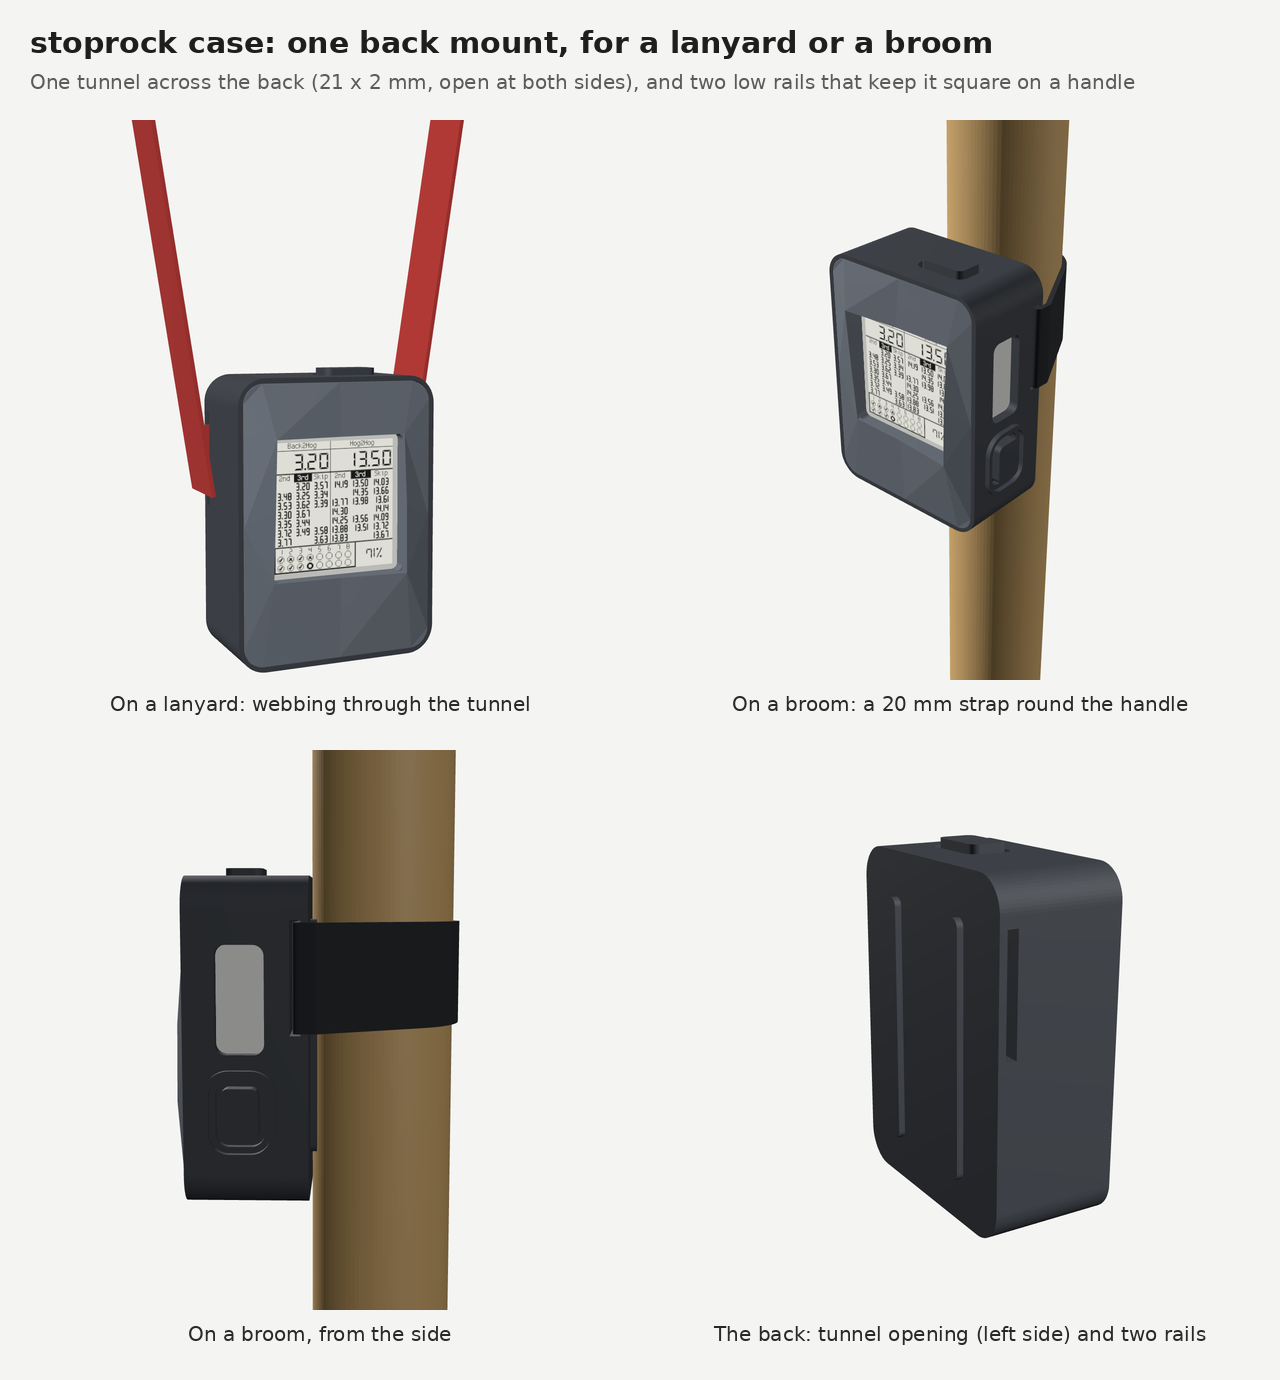
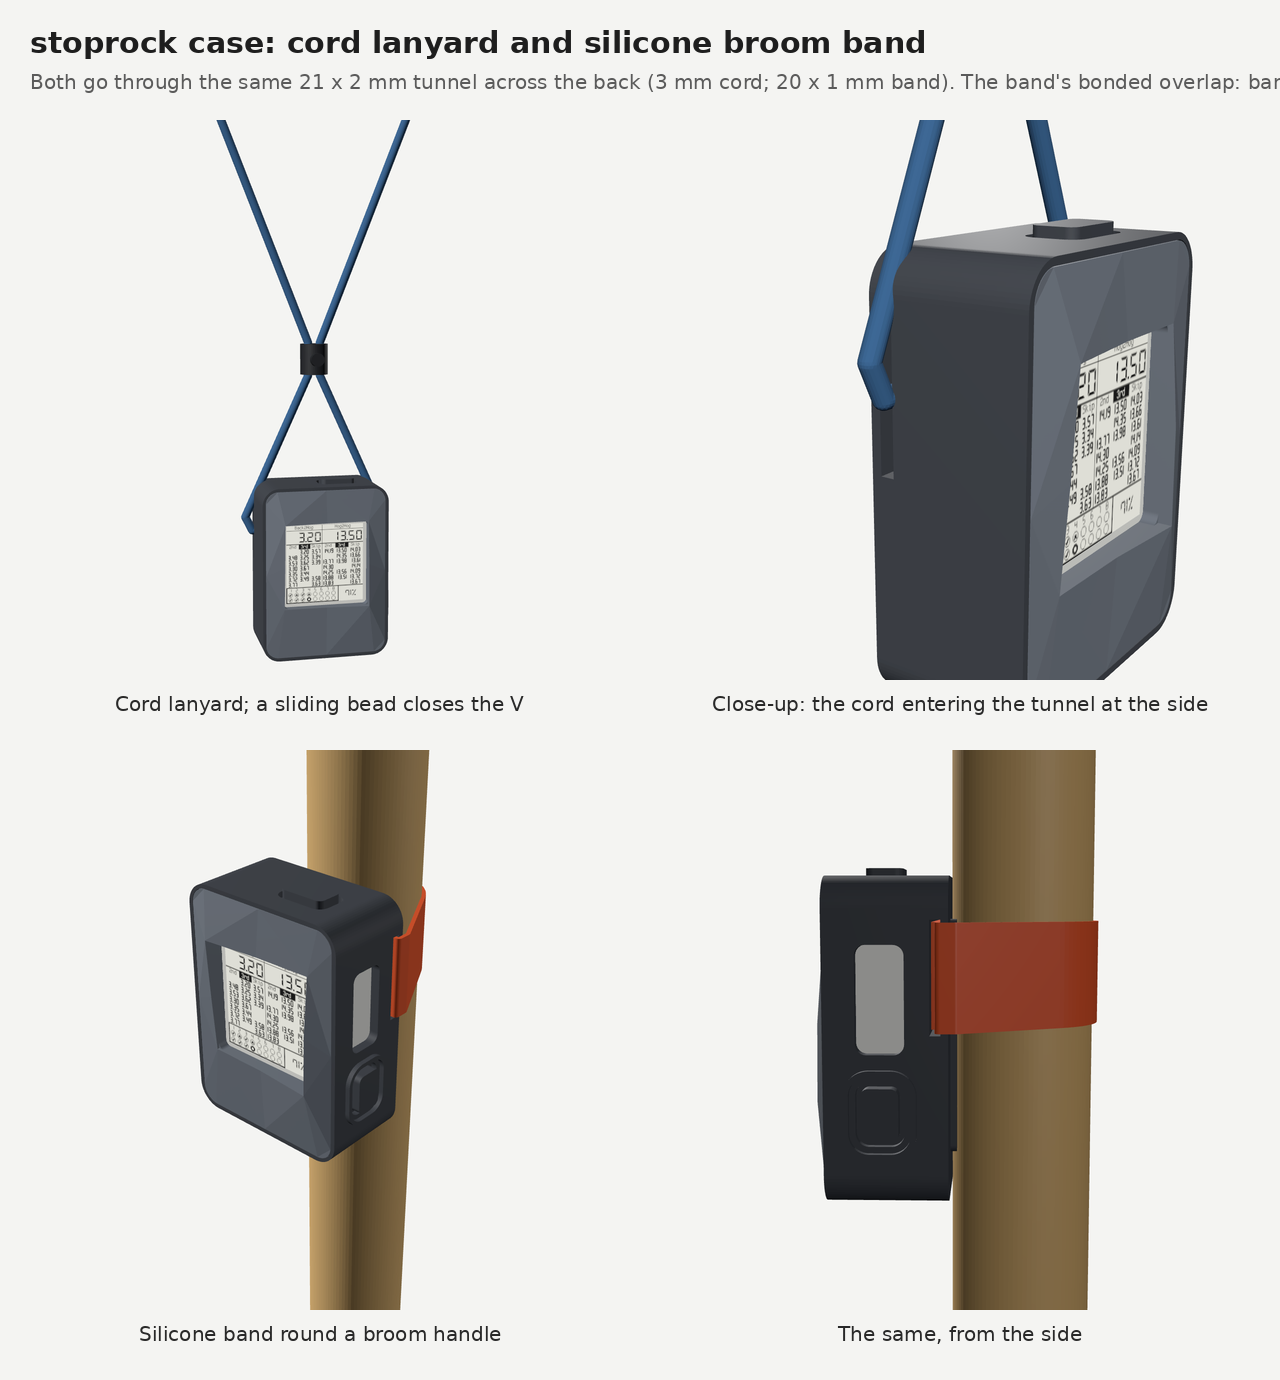
Case mockups: cord lanyard with a bead, and a bonded silicone broom band
Renders of the case on a 3 mm cord lanyard (through the strap tunnel,
its ends meeting at a sliding cord-lock bead) and on a broom handle with
a 20 x 1 mm silicone band whose bonded overlap lies doubled inside the
tunnel; band-section.png is a section through the tunnel showing the
overlap. The printable parts are unchanged.

Claude-Session: https://claude.ai/code/session_01YA9zoncxe9XeMCwR12hQbC

diff --git a/hardware/case/render/index.html b/hardware/case/render/index.html
@@ -39,10 +39,13 @@ if (view !== 'tub' && view !== 'bezel' && view !== 'mount') {
   const scr = new THREE.Mesh(new THREE.PlaneGeometry(27.6, 27.6), new THREE.MeshBasicMaterial({ map: tex }));
   scr.position.set(22.5, 58.5 - 25, 18.55 + dz); group.add(scr);
 }
-if (view === 'lanyard') await add('model-lanyard.stl', mat(0xb8322e, { roughness: 0.85 }));
+if (view.startsWith('cord')) {
+  await add('model-cord.stl', mat(0x2f5d8a, { roughness: 0.9 }));
+  await add('model-cordlock.stl', mat(0x222428, { roughness: 0.5 }));
+}
 if (view.startsWith('broom')) {
   await add('model-handle.stl', mat(0xc9a46a, { roughness: 0.55 }));
-  await add('model-strap.stl', mat(0x24262a, { roughness: 0.95 }));
+  await add('model-band.stl', mat(0xd9542b, { roughness: 0.45 }));
 }
 if (view === 'bezel') group.children[0].visible = false;
 group.position.set(-22.5, -30.5, -10.5);
@@ -50,7 +53,8 @@ const views = {
   front: [[70, 55, 170], [0, 0, 0]], tub: [[80, 70, 150], [0, 0, 0]], exploded: [[150, 40, 120], [0, 0, 8]],
   right: [[170, 10, 40], [0, 0, 0]], bezel: [[-95, 25, 95], [0, 0, 10]],
   mount: [[-150, 55, -95], [0, 0, -6]],
-  lanyard: [[-90, 40, 210], [0, 25, 0]],
+  cord: [[-80, 95, 360], [0, 60, 0]],
+  'cord-close': [[-120, 45, 70], [-18, 12, -2]],
   broom: [[150, 120, 160], [0, -10, -10]],
   'broom-end': [[10, 230, 25], [0, 0, -12]],
   'broom-side': [[210, 25, -20], [0, 0, -14]],

diff --git a/hardware/case/render/shoot.js b/hardware/case/render/shoot.js
@@ -7,7 +7,7 @@ const { chromium } = require('playwright');
   page.on('pageerror', e => errs.push(String(e)));
   page.on('console', m => { if (m.type() === 'error') errs.push(m.text()); });
   const views = process.argv.slice(2).length ? process.argv.slice(2)
-    : ['front', 'bezel', 'right', 'exploded', 'tub', 'mount', 'lanyard', 'broom', 'broom-side'];
+    : ['front', 'bezel', 'right', 'exploded', 'tub', 'mount', 'cord', 'cord-close', 'broom', 'broom-side'];
   for (const v of views) {
     await page.goto(`http://127.0.0.1:8377/index.html?view=${v}`);
     await page.waitForFunction(() => document.title === 'done', null, { timeout: 60000 });

diff --git a/hardware/case/render/section.py b/hardware/case/render/section.py
@@ -1,0 +1,89 @@
+"""A section through the strap tunnel, with the case on a broom: shows the silicone band's
+bonded overlap lying doubled inside the tunnel.   python section.py -> ../band-section.png"""
+from pathlib import Path
+import sys
+
+from PIL import Image, ImageChops, ImageDraw, ImageFont
+
+HERE = Path(__file__).resolve().parent
+sys.path.insert(0, str(HERE.parent))
+import case  # noqa: E402
+from manifold3d import Manifold  # noqa: E402
+
+cy = case.TUNNEL["cy"]
+dev = Manifold.cube((case.DEV_W, case.DEV_H, case.DEV_T)).translate((case.WALL, case.WALL, case.DEV_Z0))
+handle = case.scene_parts()["handle"]
+parts = [  # drawn in this order
+    ("handle", handle, (201, 164, 106)),
+    ("tub", case.tub(), (59, 63, 70)),
+    ("bezel", case.bezel(), (106, 113, 123)),
+    ("device", dev, (225, 225, 220)),
+    ("band", case.broom_band(), (217, 84, 43)),
+]
+
+
+def section(m):
+    """Polygons of m cut by the plane y = cy, as (x, z) points."""
+    return [[(x, -yz) for x, yz in poly] for poly in m.rotate((90, 0, 0)).slice(cy).to_polygons()]
+
+
+def draw(scale, x0, x1, z0, z1, pad=30):
+    W, H = int((x1 - x0) * scale) + 2 * pad, int((z1 - z0) * scale) + 2 * pad
+    img = Image.new("RGB", (W, H), (244, 244, 242))
+    px = lambda x, z: (pad + (x - x0) * scale, pad + (z1 - z) * scale)   # noqa: E731  (front up)
+    for _, m, col in parts:
+        mask = Image.new("1", (W, H), 0)
+        for poly in section(m):
+            one = Image.new("1", (W, H), 0)
+            ImageDraw.Draw(one).polygon([px(x, z) for x, z in poly], fill=1)
+            mask = ImageChops.logical_xor(mask, one)
+        img.paste(Image.new("RGB", (W, H), col), (0, 0), mask)
+    return img, px
+
+
+bold = ImageFont.truetype("/usr/share/fonts/truetype/dejavu/DejaVuSans-Bold.ttf", 26)
+reg = ImageFont.truetype("/usr/share/fonts/truetype/dejavu/DejaVuSans.ttf", 19)
+small = ImageFont.truetype("/usr/share/fonts/truetype/dejavu/DejaVuSans.ttf", 17)
+
+whole, pw = draw(11, -6, case.CW + 6, -33, 26)
+zoom, pz = draw(34, -3, 24, -3.8, 4.4)
+LAB = 270            # room for labels to the right of each drawing
+sheet = Image.new("RGB", (whole.width + LAB + zoom.width + 360 + 40, max(whole.height, zoom.height) + 170), (244, 244, 242))
+d = ImageDraw.Draw(sheet)
+d.text((30, 22), "Silicone band on a broom: section through the strap tunnel", font=bold, fill=(30, 30, 30))
+d.text((30, 62), "The band's two ends overlap and are bonded; the overlap lies doubled inside the tunnel, "
+       "which hides and clamps the joint.", font=reg, fill=(90, 90, 90))
+wx, wy = 20, 120
+zx, zy = whole.width + LAB + 40, 150
+sheet.paste(whole, (wx, wy))
+sheet.paste(zoom, (zx, zy))
+d.text((zx, zy - 38), "Close-up: the left half of the tunnel (the band continues to the right)", font=reg, fill=(40, 40, 40))
+
+
+def label(base, pxf, img_w, x, z, text):
+    """A dot on the feature, a horizontal leader to the right margin, and the label."""
+    ax, ay = pxf(x, z)
+    ax, ay = ax + base[0], ay + base[1]
+    ex = base[0] + img_w + 10
+    d.line([(ax, ay), (ex, ay)], fill=(110, 110, 110), width=2)
+    d.ellipse([ax - 4, ay - 4, ax + 4, ay + 4], fill=(70, 70, 70))
+    d.text((ex + 8, ay - 11), text, font=small, fill=(30, 30, 30))
+
+
+W1 = whole.width
+label((wx, wy), pw, W1, case.CW - 4, 20.2, "bezel")
+label((wx, wy), pw, W1, case.CW - 6, 12, "CoreInk")
+label((wx, wy), pw, W1, case.CW - 0.5, 6, "case (tub)")
+label((wx, wy), pw, W1, case.CW - 5, -0.2, "tunnel, with the band")
+label((wx, wy), pw, W1, case.CW + 1.0, -5, "silicone band, 1 mm")
+label((wx, wy), pw, W1, case.CW / 2 + 6, -16, "broom handle")
+W2 = zoom.width
+label((zx, zy), pz, W2, 22, 3.6, "CoreInk")
+label((zx, zy), pz, W2, 22, 2.0, "case floor, under the CoreInk")
+label((zx, zy), pz, W2, 22, 0.95, "overlap: the other end, bonded")
+label((zx, zy), pz, W2, 22, -0.05, "band (first layer)")
+label((zx, zy), pz, W2, 22, -1.3, "tunnel floor (outer skin)")
+label((zx, zy), pz, W2, 12.5, -2.7, "rail")
+label((zx, zy), pz, W2, 22, -3.5, "broom handle")
+sheet.save(HERE.parent / "band-section.png")
+print("wrote band-section.png", sheet.size)

diff --git a/hardware/case/case.py b/hardware/case/case.py
@@ -169,27 +169,55 @@ def tub():
 HANDLE_R = 14.0
 
 
-def scene_parts():
+def capsule_path(points, r):
+    """A round cord along a polyline: one capsule (hull of two spheres) per segment."""
+    balls = [Manifold.sphere(r, circular_segments=24).translate(p) for p in points]
+    return Manifold.batch_boolean([Manifold.batch_hull([a, b]) for a, b in zip(balls, balls[1:])], OpType.Add)
+
+
+BAND_T = 1.0           # silicone band thickness
+BAND_W = 20.0          # and width
+CORD_R = 1.5           # 3 mm lanyard cord
+
+
+def broom_band():
+    """A silicone band through the tunnel and round the handle, its ends overlapped and bonded
+    inside the tunnel (the doubled part)."""
     tn = TUNNEL
     back = -MOUNT_BACK - RAILS["h"]
-    hz = -MOUNT_BACK - HANDLE_R                  # the handle touches the back between the rails
-    handle = Manifold.cylinder(260, HANDLE_R, circular_segments=96).rotate((-90, 0, 0)).translate((CW / 2, -120, hz))
-    # the strap: through the tunnel, down the case's sides, round the handle (1.2 mm thick, 20 wide)
-    core = CrossSection.hull_points([(0, tn["z0"] + 0.2), (CW, tn["z0"] + 0.2), (0, back), (CW, back)]
+    hz = -MOUNT_BACK - HANDLE_R
+    z_in = tn["z0"] + 0.1                      # the band's inner face, in the tunnel
+    core = CrossSection.hull_points([(0, z_in), (CW, z_in), (0, back), (CW, back)]
                                     + [(CW / 2 + HANDLE_R * np.cos(a), hz + HANDLE_R * np.sin(a))
                                        for a in np.linspace(0, 2 * np.pi, 96, endpoint=False)])
-    ring = core.offset(1.2, JoinType.Round, circular_segments=64) - core
-    strap = Manifold.extrude(ring, 20).rotate((90, 0, 0)).translate((0, tn["cy"] + 10, 0))
-    # lanyard: flat 15 mm webbing through the tunnel, its ends rising up the sides towards the neck
-    wz = (tn["z0"] + tn["z1"]) / 2
-    through = Manifold.cube((CW + 3, 15, 0.9)).translate((-1.5, tn["cy"] - 7.5, wz - 0.45))
-    lanyard = through
-    for sx in (-1, 1):
-        x = -1.5 if sx < 0 else CW + 0.6
-        rise = Manifold.cube((0.9, 150, 15)).translate((0, 0, -7.5))
-        rise = rise.rotate((0, 0, -sx * 9)).translate((x, tn["cy"] - 7.5, wz))
-        lanyard += rise
-    return {"handle": handle, "strap": strap, "lanyard": lanyard}
+    ring = core.offset(BAND_T, JoinType.Round, circular_segments=64) - core
+    lap = CrossSection.square((CW - 12, BAND_T - 0.05)).translate((6, z_in + BAND_T))   # the overlap, on top
+    band2d = ring + lap
+    return Manifold.extrude(band2d, BAND_W).rotate((90, 0, 0)).translate((0, tn["cy"] + BAND_W / 2, 0))
+
+
+def cord_lanyard():
+    """A 3 mm cord through the tunnel; its ends rise up the sides to a sliding cord-lock bead,
+    then go on up as the neck loop."""
+    tn = TUNNEL
+    z = (tn["z0"] + tn["z1"]) / 2
+    y, bead_y = tn["cy"], tn["cy"] + 62
+    pts_l = [(CW / 2, y, z), (-0.5, y, z), (-3.0, y + 5, z), (CW / 2 - 2.2, bead_y - 6, z), (CW / 2 - 2.2, bead_y + 6, z),
+             (-25, bead_y + 120, z)]
+    pts_r = [(CW / 2, y, z), (CW + 0.5, y, z), (CW + 3.0, y + 5, z), (CW / 2 + 2.2, bead_y - 6, z), (CW / 2 + 2.2, bead_y + 6, z),
+             (CW + 25, bead_y + 120, z)]
+    cord = capsule_path(pts_l, CORD_R) + capsule_path(pts_r, CORD_R)
+    bead = Manifold.cylinder(11, 5.0, circular_segments=48).rotate((-90, 0, 0)).translate((CW / 2, bead_y - 5.5, z))
+    button = Manifold.cylinder(3, 2.4, circular_segments=32).translate((CW / 2, bead_y, z + 4.0))
+    return cord, bead + button
+
+
+def scene_parts():
+    tn = TUNNEL
+    hz = -MOUNT_BACK - HANDLE_R                  # the handle touches the back between the rails
+    handle = Manifold.cylinder(260, HANDLE_R, circular_segments=96).rotate((-90, 0, 0)).translate((CW / 2, -120, hz))
+    cord, cordlock = cord_lanyard()
+    return {"handle": handle, "band": broom_band(), "cord": cord, "cordlock": cordlock}
 
 
 # ------------------------------------------------------------------ the bezel

diff --git a/hardware/case/README.md b/hardware/case/README.md
@@ -9,7 +9,8 @@ groove in the tub's rim. Concept sketch: [`docs/mockups/case-concept.png`](../..
 | `case.py` | The model, in code: change a number, run it, get new STLs |
 | `stoprock-case-tub.stl`, `stoprock-case-bezel.stl` | Printable parts, oriented for printing |
 | `preview.png` | Renders of both parts (made with `render/`) |
-| `mount-concept.png` | The same case on a lanyard and on a broom |
+| `mount-concept.png` | The same case on a cord lanyard and on a broom (silicone band) |
+| `band-section.png` | Section through the tunnel: the band's bonded overlap inside it |
 | `QUOTE.md` | What to send a print shop with the STLs |
 | `stoprock-case-quote.zip` | STLs + preview + QUOTE.md, ready to attach |
 
@@ -21,6 +22,9 @@ tune the 0.2 mm fit gap, the button nubs and the snap bead.
 The concept sketch puts the power button on the left; the drawing shows the side button on the
 right, below the dial, and the model follows the drawing.
 
-**Mount.** One tunnel runs across the back (21 x 2 mm, open at both sides): flat lanyard webbing
-through it hangs the case upright and centred, and a 20 mm hook-and-loop strap through it holds the
-case on a broom handle, where two low rails keep it square. It replaced a corner lanyard loop.
+**Mount.** One tunnel runs across the back (21 x 2 mm, open at both sides; the TPU stretches for a
+3 mm cord). A lanyard cord through it, its ends meeting at a sliding cord-lock bead above the case,
+hangs the case upright and centred. On a broom, a silicone band (about 20 x 1 mm) goes through the
+tunnel and round the handle, and its ends are overlapped and bonded with a silicone adhesive, the
+overlap lying doubled inside the tunnel; the case and band slide on and off over the top of the
+handle. Two low rails keep the case square on the handle. It replaced a corner lanyard loop.

diff --git a/hardware/case/render/README.md b/hardware/case/render/README.md
@@ -7,7 +7,8 @@ Playwright's Chromium. From this folder:
 npm install three@0.170.0 playwright
 python3 ../case.py                 # also writes model-*.stl here, in model coordinates
 python3 -m http.server 8377 &      # the page loads its modules and the STLs over http
-node shoot.js                      # -> view-*.png (front, bezel, right, exploded, tub, mount, lanyard, broom, broom-side)
+node shoot.js                      # -> view-*.png (front, bezel, right, exploded, tub, mount, cord, cord-close, broom, broom-side)
+python3 section.py                 # -> ../band-section.png
 ```
 
 `hardware/case/preview.png` is those five views side by side, with captions.
